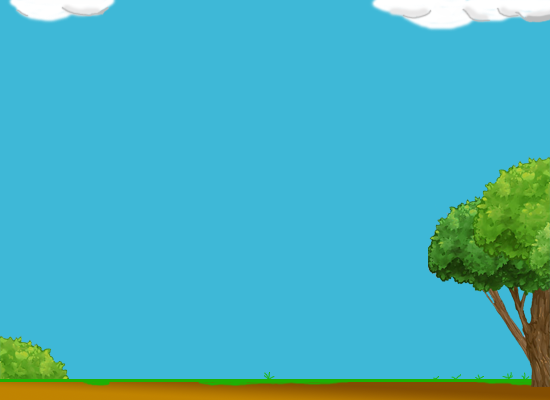
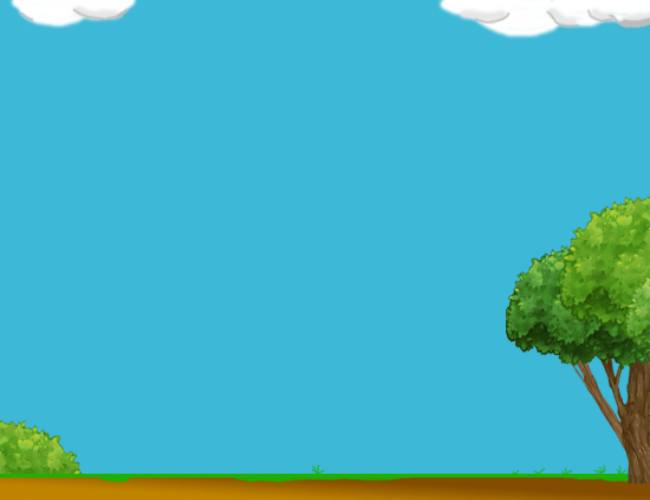
Added a background

diff --git a/MosquitoTime/Game1.cs b/MosquitoTime/Game1.cs
@@ -10,7 +10,7 @@ namespace MosquitoTime
         private SpriteBatch _spriteBatch;
 
         private Texture2D playerCannonTexture;
-
+        private Texture2D backgroundTexture;
 
         Player testObject;
         Transform testTransform;
@@ -28,11 +28,12 @@ namespace MosquitoTime
             base.Initialize(); //Runs the LoadContent() function       
 
             _graphics.PreferredBackBufferWidth = 600;
-            _graphics.PreferredBackBufferHeight = 900;
+            _graphics.PreferredBackBufferHeight = 500;
             _graphics.ApplyChanges();
 
-            testTransform = new Transform(new Vector2(300, 845), Vector2.Zero, 0, 1);
+           
             testSprite = new Sprite(playerCannonTexture, playerCannonTexture.Bounds, 1);
+            testTransform = new Transform(new Vector2(_graphics.PreferredBackBufferWidth / 2, _graphics.PreferredBackBufferHeight - testSprite.Bounds.Height-26), Vector2.Zero, 0, 1);
             testObject = new Player(testSprite, testTransform);
         }
 
@@ -40,6 +41,8 @@ namespace MosquitoTime
         {
             _spriteBatch = new SpriteBatch(GraphicsDevice);
             playerCannonTexture = Content.Load<Texture2D>("Cannon");
+            backgroundTexture = Content.Load<Texture2D>("Background");
+
             // TODO: use this.Content to load your game content here
         }
 
@@ -64,6 +67,9 @@ namespace MosquitoTime
         {
             GraphicsDevice.Clear(Color.CornflowerBlue);
             _spriteBatch.Begin();
+
+            _spriteBatch.Draw(backgroundTexture, new Vector2(0,0), Color.White);
+
 
             testObject.Draw(_spriteBatch);///////////////////////////////////
 

diff --git a/MosquitoTime/Player.cs b/MosquitoTime/Player.cs
@@ -82,7 +82,6 @@ namespace MosquitoTime
 
         public void PlayerMove()
         {
-            Debug.WriteLine(kbs.IsKeyDown(playerControls.positiveDirection));
             if (kbs.IsKeyDown(Keys.D))
             {//move right
                 if (_sprite.Bounds.X + _sprite.Bounds.Width  !<= rightmostWall)
